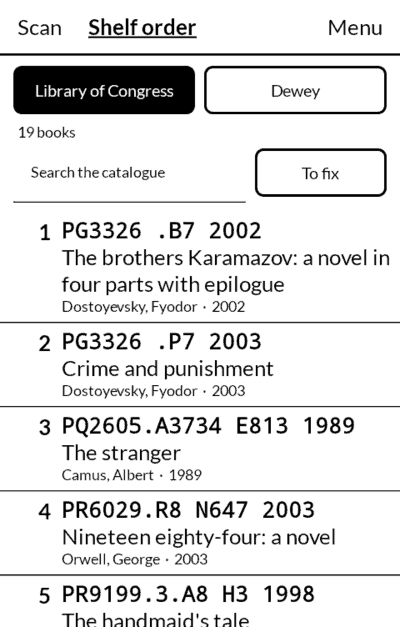
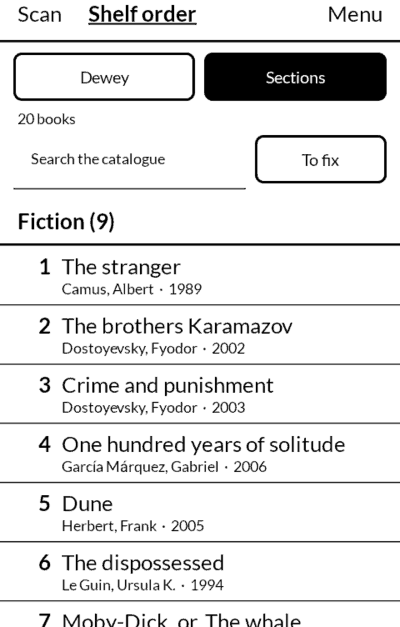
Shelf card: Dewey and Sections

Changed region(s): [[0.0, 0.0, 1.0, 1.0]]

diff --git a/index.html b/index.html
@@ -491,11 +491,11 @@ so nothing animates and every page can be read in sunlight.</p>
 
 <div class="app" id="shoka">
   <img class="shot" src="shots/shoka.png" width="400" height="627" loading="lazy"
-       alt="Shelf listing books in Library of Congress order, each with its number, call number, title and author">
+       alt="Shelf listing books in Sections, Fiction first, each with its place, title and author">
   <h4>Shelf <button type="button" class="jp" aria-pressed="false" title="日本語で読む">/ 書架 shoka</button></h4>
-  <p class="en">Scan each book's barcode and Shelf finds its Library of Congress or Dewey number, then
-  lists every book in the order it goes back on the shelf. Shared through Nextcloud.</p>
-  <p class="ja" lang="ja" hidden>本の裏のバーコードを読むと、米国議会図書館分類か十進分類の番号を探し、すべての本を棚に戻す順に並べる。Nextcloudで共有。</p>
+  <p class="en">Scan a book's barcode and Shelf finds its Dewey number and its place on your shelves,
+  by number or in broad sections with Fiction first. Shared through Nextcloud.</p>
+  <p class="ja" lang="ja" hidden>本のバーコードを読むと、十進分類の番号と、棚のどこに戻すかを示す。番号順か、小説を先にした大まかな区分で。Nextcloudで共有。</p>
   <p class="links">
     <a href="https://github.com/wanderwildwood/shoka/releases/latest/download/shoka.apk">Download</a>
     <a href="https://github.com/wanderwildwood/shoka">Source</a>
